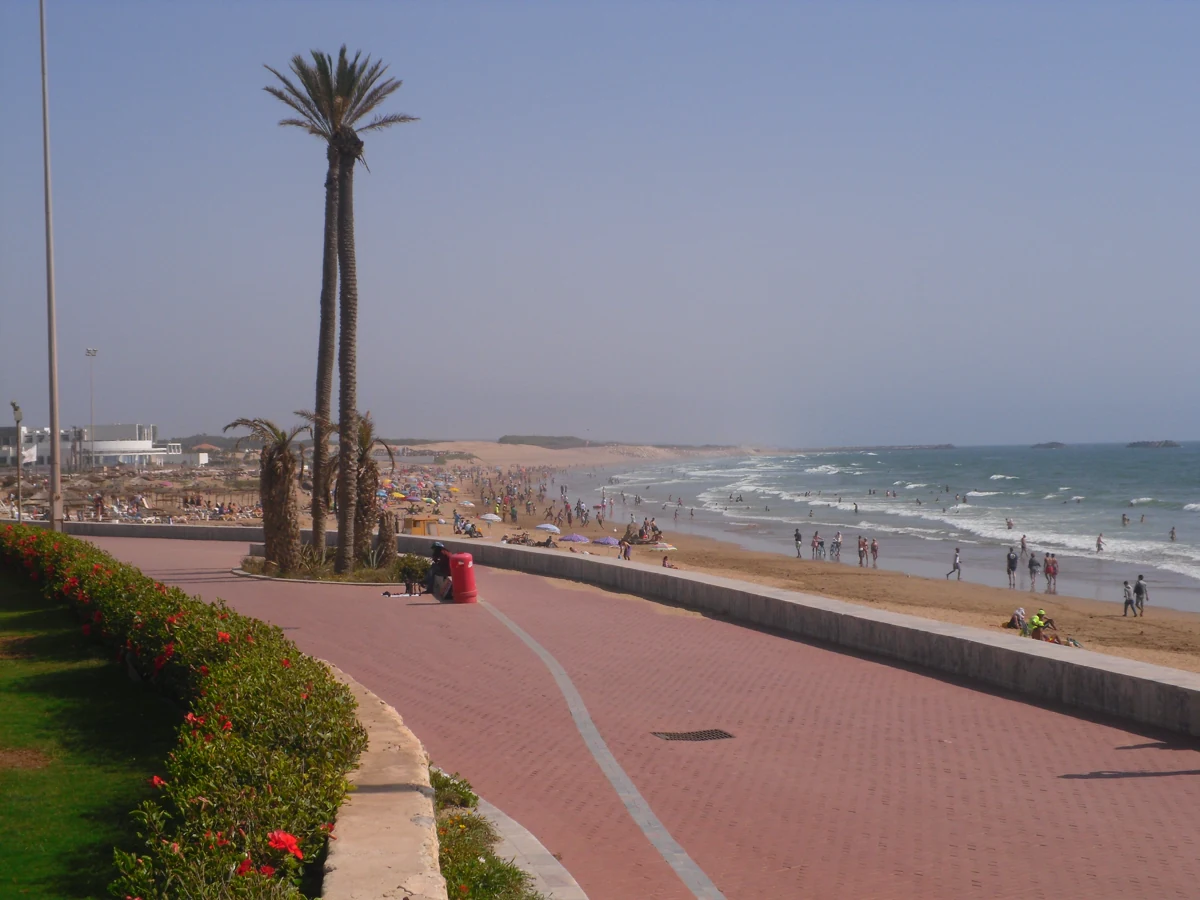
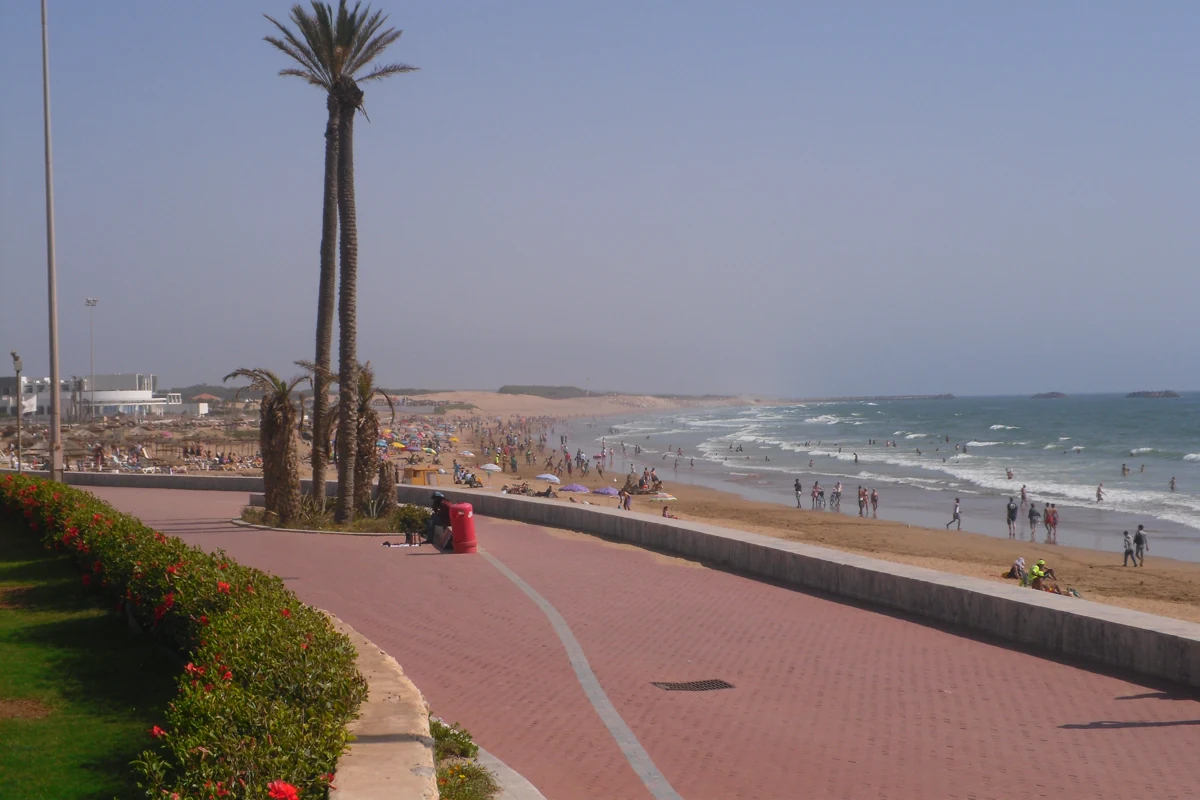
Address Cubic on Where are we? photo crop and operator docs
Centre-crop the Agadir clue to 3:2 for the phone frame, document photo.png
in credits, and mark Ed or Humza ready in the presenter note. Leave the
exporter revealLine bugs to the separate Codex change.

diff --git a/apps/api/src/questions/packs/birthday/where-are-we.ts b/apps/api/src/questions/packs/birthday/where-are-we.ts
@@ -28,5 +28,5 @@ export const whereAreWe = mapGuessQuestion({
   explanation:
     "Agadir’s Atlantic promenade. The city was rebuilt after the 1960 earthquake; the beach and corniche run for about 10 km.",
   notes:
-    "Target: OSM relation 5393745 Corniche Tawada (pedestrian seafront), centroid 30.4082969° N, 9.6019883° W. Beach: OSM way 386830407 Plage d'Agadir. Photo: https://commons.wikimedia.org/wiki/File:01-beach-agadir-morocco.JPG (Elmschrat, CC BY-SA 3.0); resized to 1200 × 900 WebP, EXIF stripped. Credit and alt do not name the place.",
+    "Target: OSM relation 5393745 Corniche Tawada (pedestrian seafront), centroid 30.4082969° N, 9.6019883° W. Beach: OSM way 386830407 Plage d'Agadir. Photo: https://commons.wikimedia.org/wiki/File:01-beach-agadir-morocco.JPG (Elmschrat, CC BY-SA 3.0); centre-cropped from 4:3 to 3:2 to match the phone clue frame, then 1200 × 800 WebP, EXIF stripped. Credit and alt do not name the place.",
 });

diff --git a/docs/content/ed-or-humza.md b/docs/content/ed-or-humza.md
@@ -1,17 +1,44 @@
 # Ed or Humza?
 
-One round: guests assign every quote to Ed or Humza on their phones, then send the complete list. Picks can be changed before submission. Correct assignments earn a proportional share of 80 points, rounded down. The default window is two minutes, with no speed bonus.
+One round: guests assign every quote to Ed or Humza on their phones, then send
+the complete list. Picks can be changed before submission. Correct assignments
+earn a proportional share of 80 points, rounded down. The window is two minutes,
+with no speed bonus.
 
-The 18 supplied quotes are preserved in `apps/api/src/questions/packs/birthday/ed-or-humza.ts`. No speaker has been assumed. It is registered as `ed-or-humza` in the birthday catalogue, remains a draft, and is absent from the running order. The phone uses the `ed-or-humza` presentation: one quote at a time (card stack), Ed/Humza tap targets, optional swipe, undo, and a compact pile to move quotes back. Admin → Question packs → Ed or Humza? → Phone preview runs that layout with the real quote list even while the answer key is incomplete. `/design?q=ed-or-humza` uses invented stand-in lines, never the party quotes or speakers. Rehearsal never awards points or makes up speakers.
+The 18 supplied quotes live in
+`apps/api/src/questions/packs/birthday/ed-or-humza.ts`. Speakers were confirmed
+on 19 November 2026. The round is **ready** and is in the birthday running order
+(`ed-or-humza`). Humza can still move it in Admin → Running order.
 
-## Assign speakers later
+The phone uses the `ed-or-humza` presentation: one quote at a time (card stack),
+Ed/Humza tap targets, optional swipe, undo, and a compact pile to move quotes
+back. Admin → Question packs → Ed or Humza? → Phone preview runs that layout
+with the real quote list. `/design?q=ed-or-humza` uses invented stand-in lines,
+never the party quotes or speakers. Rehearsal never awards points.
 
-In `edOrHumzaQuotes`, change each entry's `speaker: null` to `speaker: "ed"` or `speaker: "humza"` after confirmation. The server derives its private answer key from that list. Any null keeps the question a draft. Once all entries are assigned and content validates, it becomes ready; adding it to the running order is a separate explicit action. Existing rooms keep their frozen question script.
+## Speakers
 
-This follows the existing versioned TypeScript content workflow; there is no new CMS or browser answer-key editor.
+In `edOrHumzaQuotes`, each entry has `speaker: "ed"` or `speaker: "humza"`. The
+server derives its private answer key from that list. Existing rooms keep their
+frozen question script.
+
+This follows the existing versioned TypeScript content workflow; there is no new
+CMS or browser answer-key editor.
 
 ## Add more quotes
 
-Append an entry with a new stable id, its exact `quote` text, and `speaker: null` (or its confirmed speaker). Do not renumber existing ids. Controls, progress, completeness checks and proportional scoring use the list length automatically. The supported bound is 40 quotes, each at most 300 characters; increase the answer window if needed, up to three minutes. The card stack only shows the next unsorted quote, so a longer list does not pile up on a small phone. The primary send action stays in the existing dock.
+Append an entry with a new stable id, its exact `quote` text, and `speaker:
+"ed"` or `speaker: "humza"` (or `null` while unconfirmed — any null returns the
+question to draft). Do not renumber existing ids. Controls, progress,
+completeness checks and proportional scoring use the list length automatically.
+The supported bound is 40 quotes, each at most 300 characters; increase the
+answer window if needed, up to three minutes. The card stack only shows the next
+unsorted quote, so a longer list does not pile up on a small phone. The primary
+send action stays in the existing dock.
 
-Only quote text and the Ed/Humza labels reach phones before reveal. Speaker assignments stay server-side until the normal reveal. Guests restore their own accepted list on reconnect; they do not receive other guests' full lists. The stage shows progress while answering and groups quotes by speaker at reveal. Live controls retain the existing pause/advance/end actions and show bounded per-guest assignment counts.
+Only quote text and the Ed/Humza labels reach phones before reveal. Speaker
+assignments stay server-side until the normal reveal. Guests restore their own
+accepted list on reconnect; they do not receive other guests' full lists. The
+stage shows progress while answering and groups quotes by speaker at reveal.
+Live controls retain the existing pause/advance/end actions and show bounded
+per-guest assignment counts.

diff --git a/docs/build-progress.md b/docs/build-progress.md
@@ -7255,3 +7255,12 @@ Checks: `npm run typecheck`, `npm run lint` (15 existing warnings), `npm run for
 `npm run test:unit` reported a failure in the `where-are-we` map-pin test, which also failed in [CI on the branch base](https://github.com/Hum2a/26/actions/runs/44616795788). A kart test failed on the first full run and passed on its focused rerun (28 tests passed).
 
 Next: Humza reviews the PR.
+
+## 19 November 2026 — Merge master and Cubic on PR #57
+
+Merged `origin/master` into `cursor/final-content-drop` (no rebase). The only conflict was `docs/build-progress.md`; both the Agadir/order section and the photo-wall section were kept. Master did not change the birthday `order`. Re-ran `npm run content:export`.
+
+Cubic: recoded the clue to 3:2 (1200×800) so the phone frame does not crop the promenade; documented `photo.png` in credits; updated `docs/content/ed-or-humza.md`. Left exporter `revealLine` bugs and the `ed-or-humza` order inclusion as Humza requested.
+
+Checks: typecheck passed; lint 0 errors / 15 existing warnings; format:check passed; content:check passed with no incomplete rounds; test:unit 211 files / 976 tests; API suite 143/144 files then the timed-out `room.spec.ts` HTTP 401 case passed on rerun (17/17); build passed (gzip entry JS 222,740). Playwright not run. No deploy.
+

diff --git a/docs/content/question-image-credits.md b/docs/content/question-image-credits.md
@@ -2,8 +2,8 @@
 
 Files under `apps/web/public/assets/questions/` are served to phones and the
 projector as `/assets/questions/…`. Guest option pictures use PNG paths; the
-shared question photo uses JPEG, PNG or WebP named `photo.jpg` or `photo.webp` so
-the filename does not leak the answer.
+shared question photo uses JPEG, PNG or WebP named `photo.jpg`, `photo.png` or
+`photo.webp` so the filename does not leak the answer.
 
 This file is **not** served from `/assets`. Do not copy answer-bearing notes
 into a public CREDITS file.
@@ -25,8 +25,9 @@ Accommodation provenance is also listed in
 
 Changes on the accommodation photos: resized to fit 1200 × 900 and JPEG
 recompressed; no crop or retouch. Demo drawings were exported at 1000 × 667 JPEG.
-The Where are we? clue was resized to 1200 × 900 WebP with embedded GPS/EXIF
-stripped; no crop or retouch. The on-screen credit does not name the place.
+The Where are we? clue was centre-cropped from 4:3 to 3:2 so the phone frame
+does not hide the promenade, then resized to 1200 × 800 WebP with embedded
+GPS/EXIF stripped. The on-screen credit does not name the place.
 
 ## Copyrighted, private use
 
